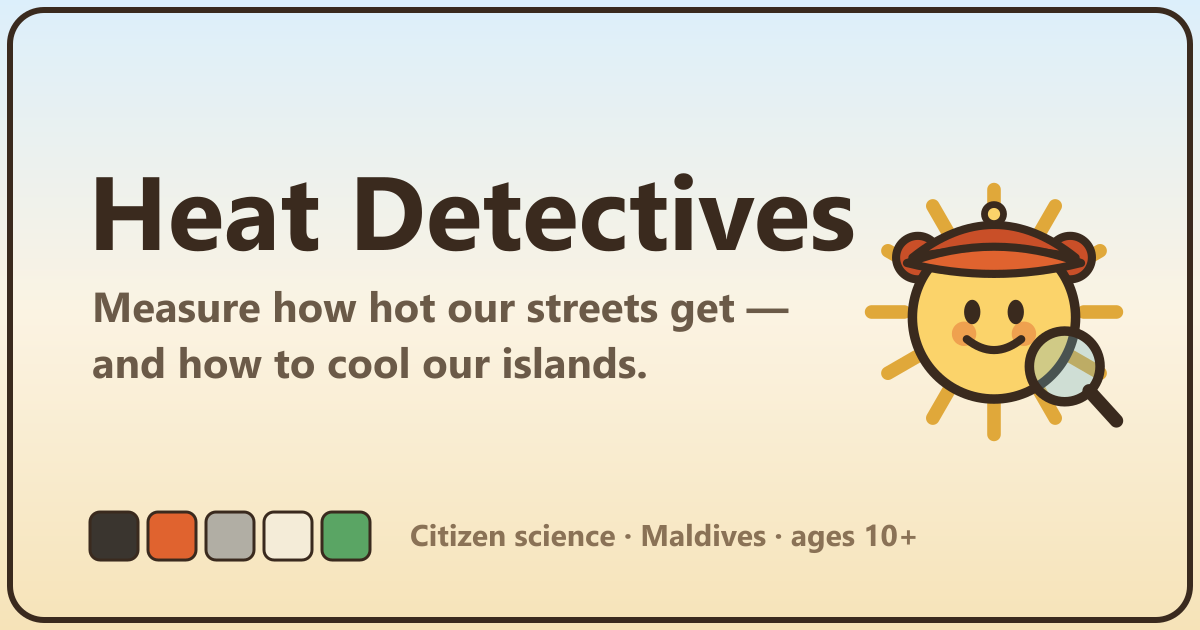
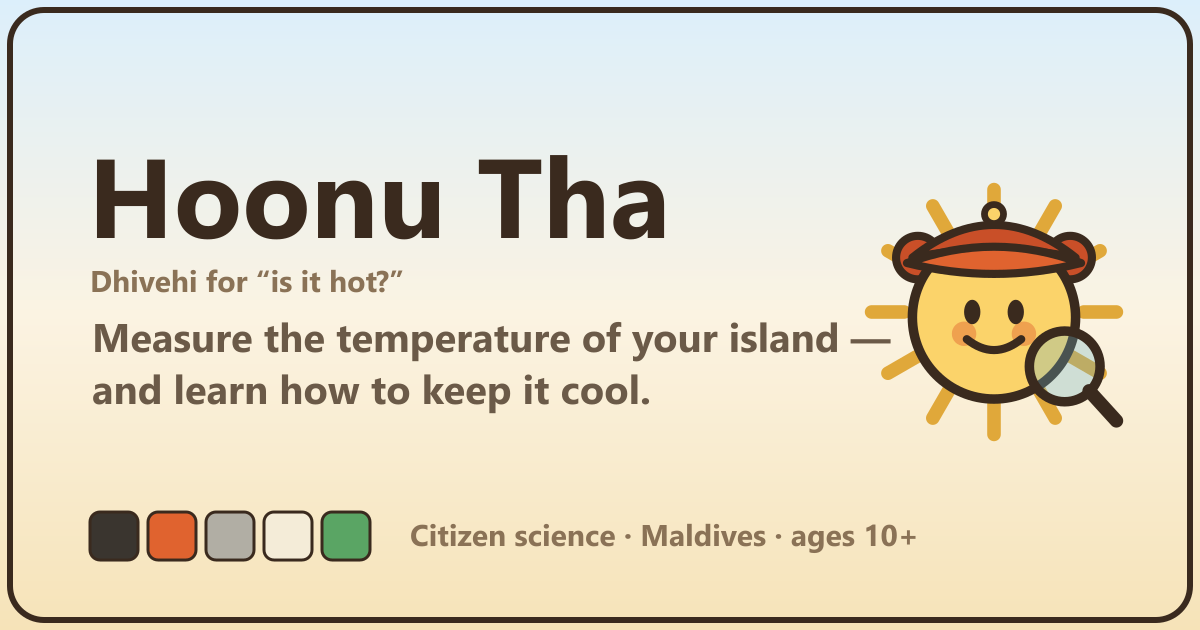
Rebrand Heat Detectives to Hoonu Tha
Hoonu Tha (Dhivehi for "is it hot?"). Updates the wordmark, tagline, page
title, PWA manifest, Open Graph metadata + regenerated OG image, README, the
CSV export filename and the APP constant. The Detective Sun mascot and the
lowercase "heat detective" role are kept — the detective theme still fits.

Changed region(s): [[0.0617, 0.2413, 0.74, 0.6635]]

diff --git a/app/layout.jsx b/app/layout.jsx
@@ -8,25 +8,25 @@ const baloo = Baloo_2({ subsets: ["latin"], weight: ["600", "700", "800"], varia
 const nunito = Nunito({ subsets: ["latin"], weight: ["400", "600", "700", "800"], variable: "--font-nunito" });
 
 const OG_DESCRIPTION =
-  "A citizen-science app where kids in the Maldives measure how hot different surfaces get — sand, asphalt, pavers, playgrounds and road paint — then discover the Urban Heat Island effect, albedo, and how trees keep our islands cool.";
+  "Hoonu Tha (Dhivehi for “is it hot?”) is a citizen-science app for kids to measure the temperature of their islands — sand, roads, pavers, playgrounds and paint — and learn how trees, shade and colour keep them cool.";
 
 export const metadata = {
   metadataBase: new URL(process.env.NEXT_PUBLIC_SITE_URL || "http://localhost:3000"),
-  title: "Heat Detectives — Maldives surface science",
+  title: "Hoonu Tha — island heat citizen science",
   description: OG_DESCRIPTION,
   manifest: "/manifest.json",
-  appleWebApp: { capable: true, title: "Heat Detectives", statusBarStyle: "default" },
+  appleWebApp: { capable: true, title: "Hoonu Tha", statusBarStyle: "default" },
   icons: { icon: "/icon-192.png", apple: "/icon-192.png" },
   openGraph: {
-    title: "Heat Detectives — Maldives surface science",
+    title: "Hoonu Tha — island heat citizen science",
     description: OG_DESCRIPTION,
     type: "website",
-    siteName: "Heat Detectives",
-    images: [{ url: "/og.png", width: 1200, height: 630, alt: "Heat Detectives — Detective Sun and the tagline 'measure how hot our streets get, and how to cool our islands'." }],
+    siteName: "Hoonu Tha",
+    images: [{ url: "/og.png", width: 1200, height: 630, alt: "Hoonu Tha — Detective Sun mascot and the tagline 'measure the temperature of your island, and learn how to keep it cool'." }],
   },
   twitter: {
     card: "summary_large_image",
-    title: "Heat Detectives — Maldives surface science",
+    title: "Hoonu Tha — island heat citizen science",
     description: OG_DESCRIPTION,
     images: ["/og.png"],
   },
@@ -48,8 +48,8 @@ export default function RootLayout({ children }) {
           <div className="flex items-center gap-2.5 px-4 py-2.5">
             <DetectiveSun size={40} />
             <div>
-              <div className="font-display text-[17px] font-extrabold leading-none text-[var(--color-ink)]">Heat Detectives</div>
-              <div className="mt-0.5 text-[11px] font-semibold leading-none text-[var(--color-ink-2)]">Measure the heat. Cool your island.</div>
+              <div className="font-display text-[17px] font-extrabold leading-none text-[var(--color-ink)]">Hoonu Tha</div>
+              <div className="mt-0.5 text-[11px] font-semibold leading-none text-[var(--color-ink-2)]">Measure your island. Keep it cool.</div>
             </div>
           </div>
         </header>

diff --git a/lib/data.js b/lib/data.js
@@ -1,13 +1,13 @@
-// Science model + reference data for Heat Detectives.
+// Science model + reference data for Hoonu Tha.
 // Albedo = how much sunlight a surface bounces back (0 = soaks up everything
 // and gets hot, 1 = mirror). These are approximate, kid-friendly values used
 // for the Field Guide and to explain the readings the children collect.
 
 export const APP = {
-  name: "Heat Detectives",
-  short: "HeatDetectives",
-  tagline: "Maldives surface-temperature science",
-  theme: "#f97316",
+  name: "Hoonu Tha",
+  short: "Hoonu Tha",
+  tagline: "Measure your island. Keep it cool.",
+  theme: "#e0632f",
 };
 
 // How much sun is hitting the spot when measured.

diff --git a/app/data/page.jsx b/app/data/page.jsx
@@ -148,7 +148,7 @@ function download(csv) {
   const url = URL.createObjectURL(blob);
   const a = document.createElement("a");
   a.href = url;
-  a.download = "heat-detectives-readings.csv";
+  a.download = "hoonu-tha-readings.csv";
   a.click();
   URL.revokeObjectURL(url);
 }

diff --git a/app/page.jsx b/app/page.jsx
@@ -34,7 +34,7 @@ export default function Home() {
             Why do some streets feel like an <span className="squiggle">oven?</span>
           </h1>
           <p className="mt-2 text-sm leading-relaxed text-[var(--color-ink-2)]">
-            Grab a thermometer, measure the surfaces around you, and become a Heat Detective.
+            Grab a thermometer, measure the surfaces around you, and become a heat detective.
             Your readings uncover the <b className="text-[var(--color-accent-2)]">Urban Heat Island</b> — and
             how trees, colour and shade cool our islands.
           </p>

diff --git a/tokens.css b/tokens.css
@@ -1,4 +1,4 @@
-/* Heat Detectives — "Sunny Lagoon" design tokens.
+/* Hoonu Tha — "Sunny Lagoon" design tokens.
    Portable drop-in: import this file, then reference tokens by name. */
 :root {
   /* paper + ink */

diff --git a/README.md b/README.md
@@ -1,9 +1,9 @@
-# Heat Detectives 🌡️
+# Hoonu Tha 🌡️
 
-A Progressive Web App for kids (10+) to run a real **citizen-science** investigation:
-measure how hot different surfaces get around the Maldives, then discover the
-**Urban Heat Island effect**, **albedo**, and how **trees & evapotranspiration**
-cool our islands.
+**Hoonu Tha** (Dhivehi for *"is it hot?"*) is a Progressive Web App for kids (10+)
+to run a real **citizen-science** investigation: measure the temperature of the
+surfaces around their islands, then discover the **Urban Heat Island effect**,
+**albedo**, and how **trees, shade & evapotranspiration** keep the islands cool.
 
 ## What it does
 - **Measure** — a guided wizard: temperature → surface material → colour (for